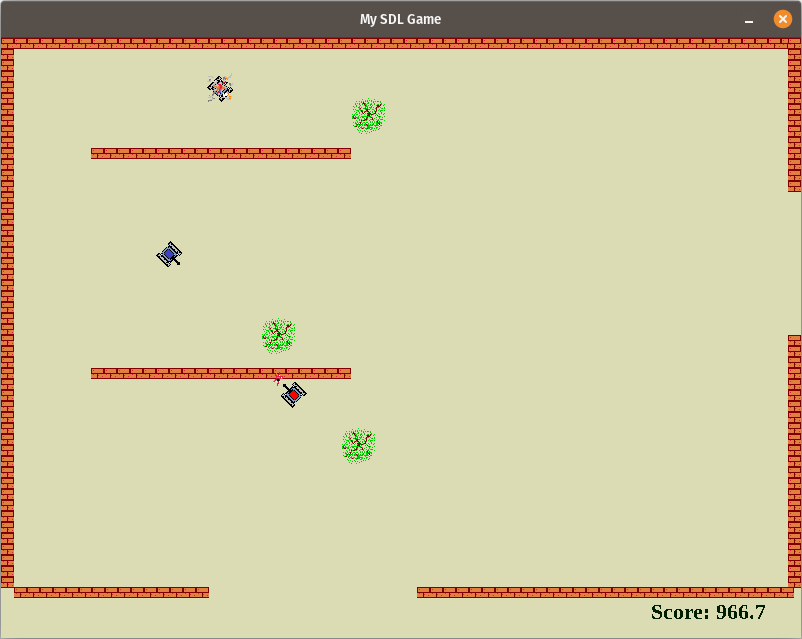
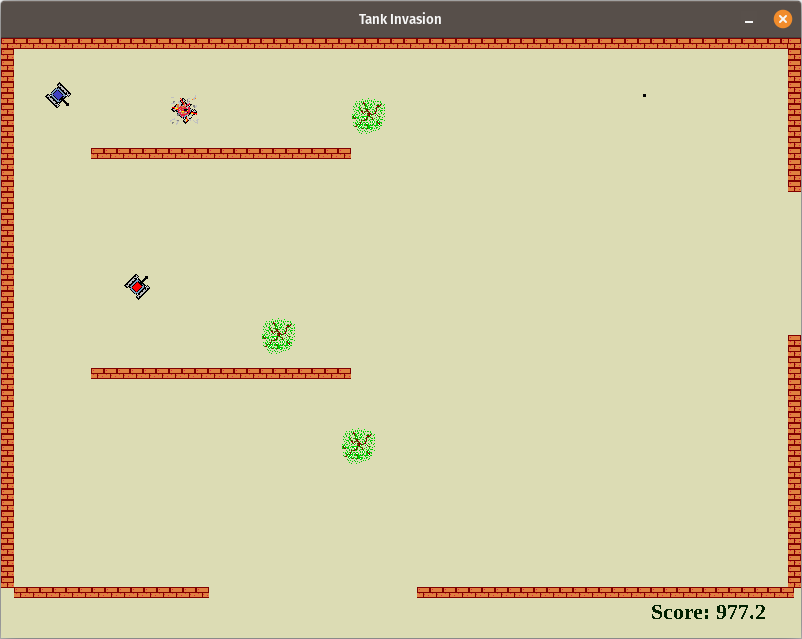
Changed main screen title to "Tank Invasion"

diff --git a/main.cpp b/main.cpp
@@ -140,7 +140,8 @@ int main(int argc, char* argv[]) {
     drawText = std::make_unique<DrawText>();
     // Initialize SDL
     if (SDL_Init(SDL_INIT_VIDEO) != 0) {
-        SDL_LogError(SDL_LOG_CATEGORY_APPLICATION, "Unable to initialize SDL: %s", SDL_GetError());
+        SDL_LogError(SDL_LOG_CATEGORY_APPLICATION,
+            "Unable to initialize SDL: %s", SDL_GetError());
         return 1;
     }
 
@@ -150,11 +151,12 @@ int main(int argc, char* argv[]) {
     }
 
     // Create a window
-    SDL_Window* window = SDL_CreateWindow("My SDL Game",
+    SDL_Window* window = SDL_CreateWindow("Tank Invasion",
         SDL_WINDOWPOS_CENTERED, SDL_WINDOWPOS_CENTERED,
         WINDOW_WIDTH, WINDOW_HEIGHT, SDL_WINDOW_SHOWN);
     if (window == nullptr) {
-        SDL_LogError(SDL_LOG_CATEGORY_APPLICATION, "Unable to create window: %s", SDL_GetError());
+        SDL_LogError(SDL_LOG_CATEGORY_APPLICATION,
+            "Unable to create window: %s", SDL_GetError());
         SDL_Quit();
         return 1;
     }
